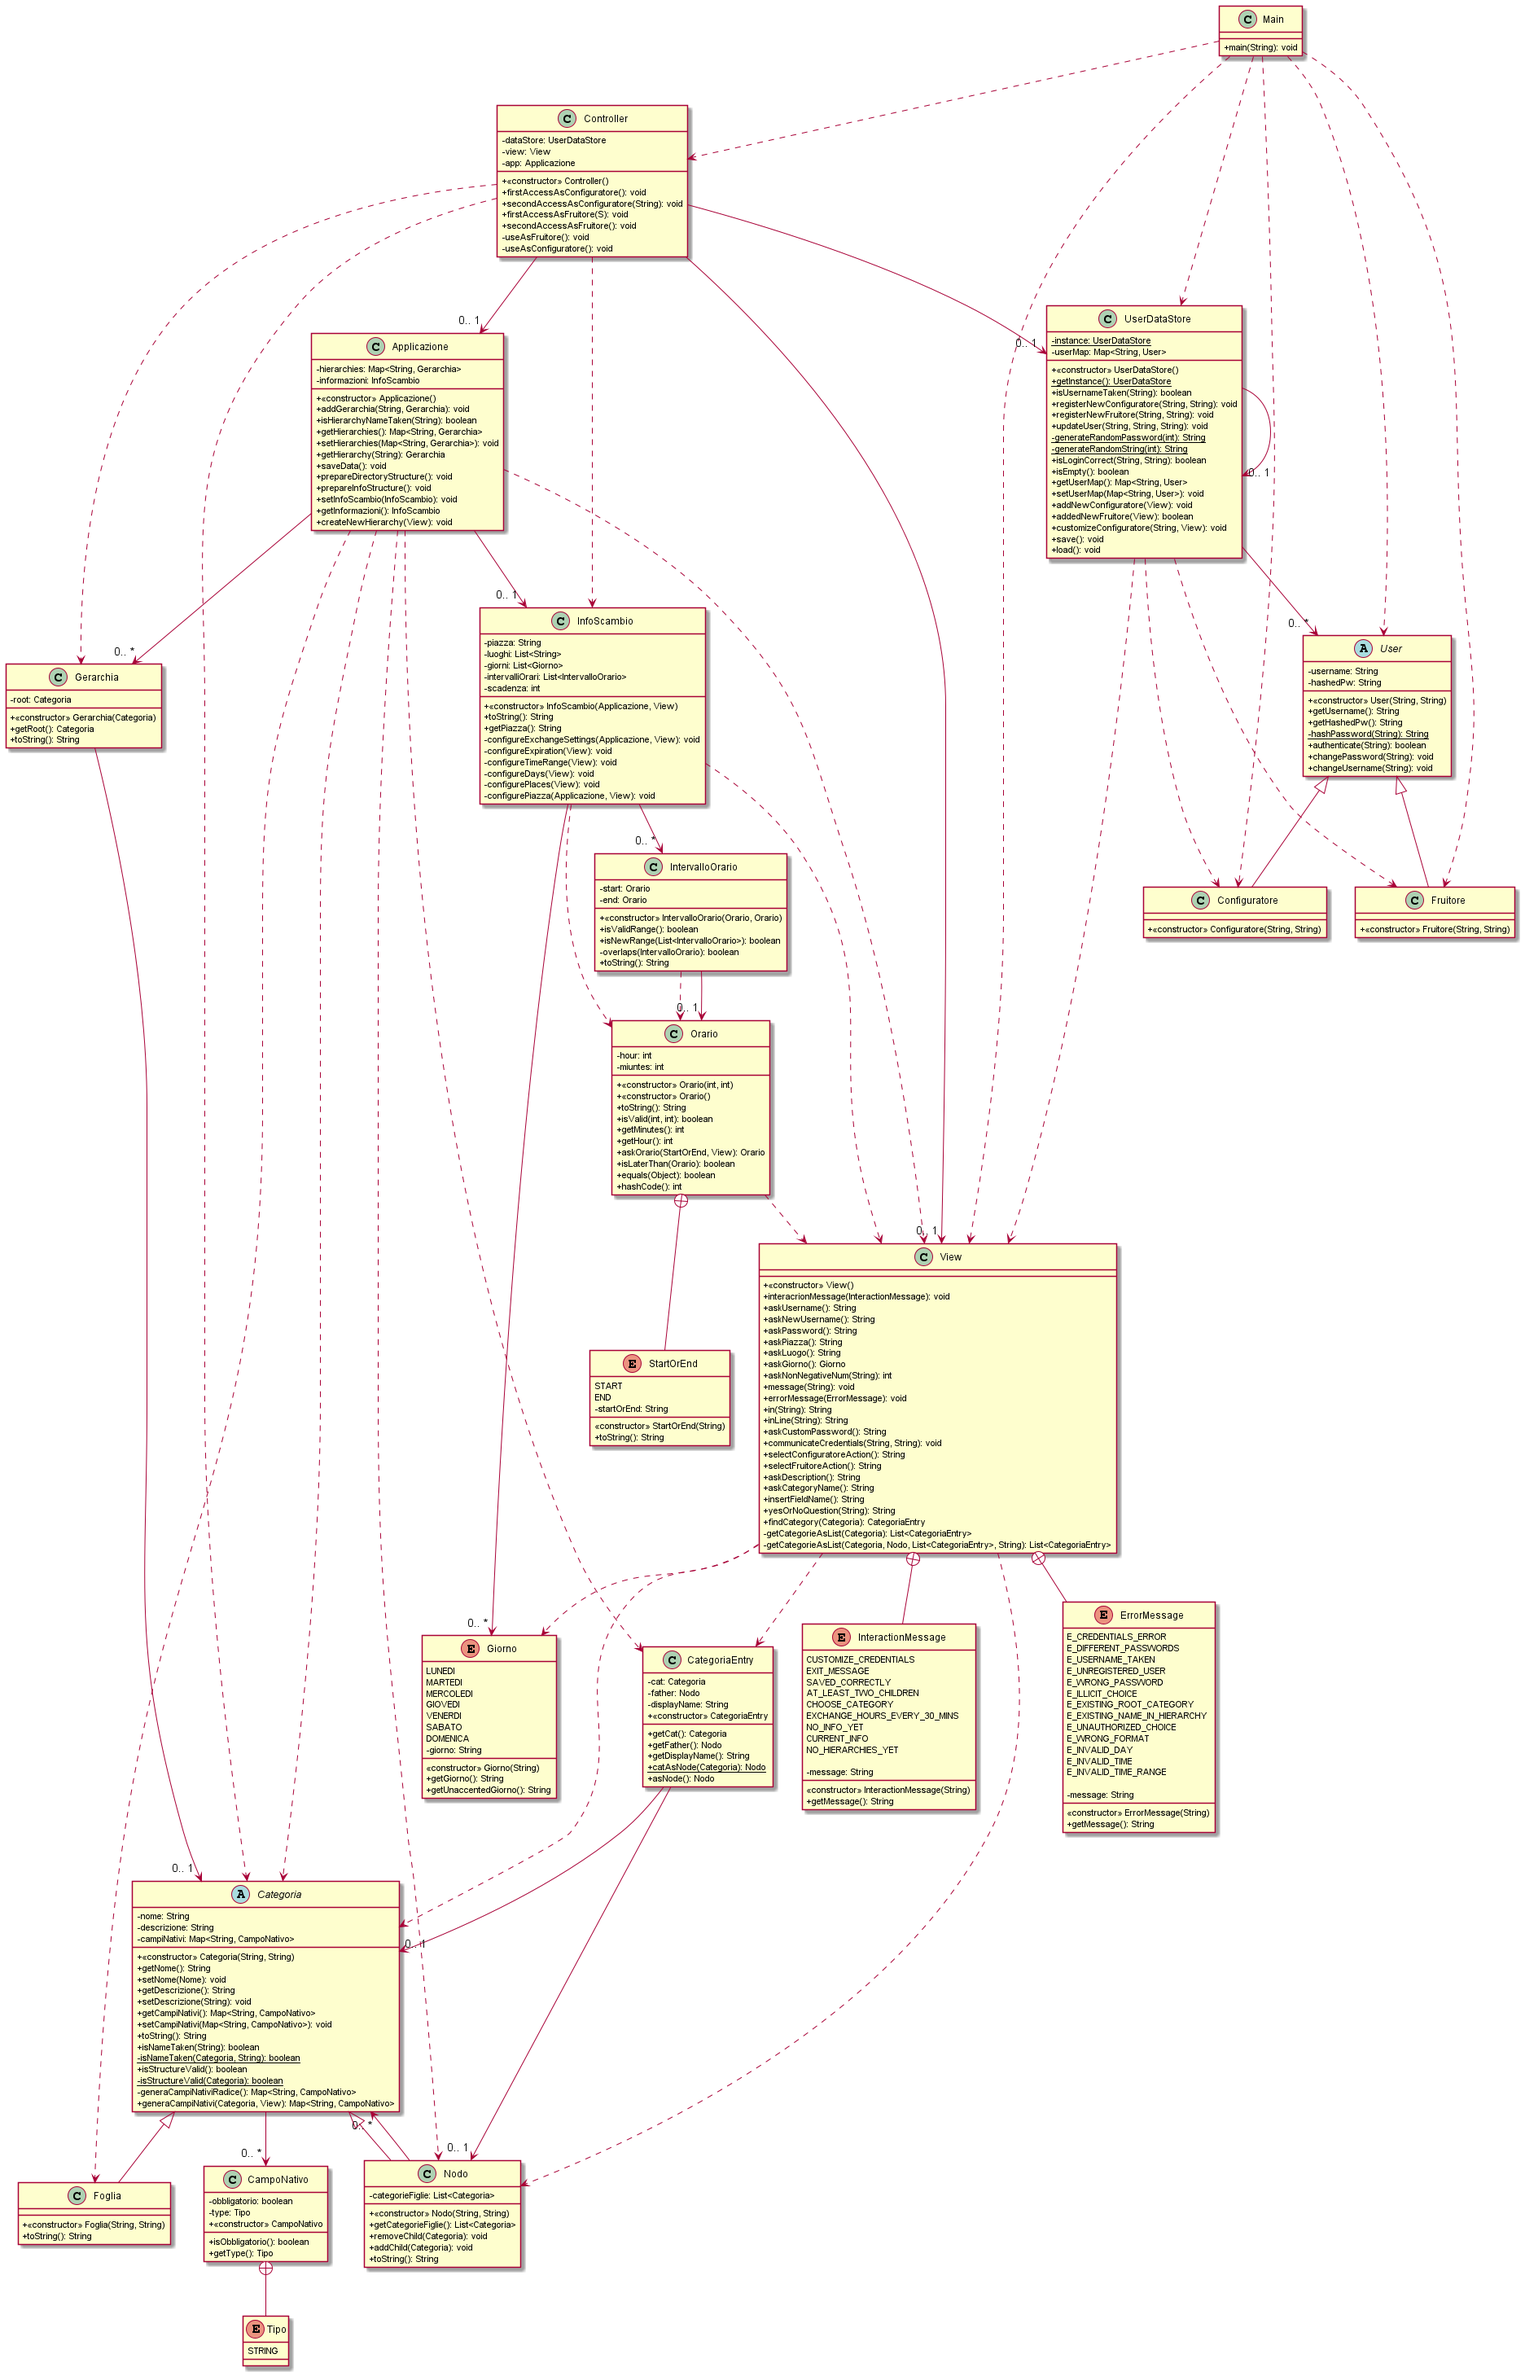
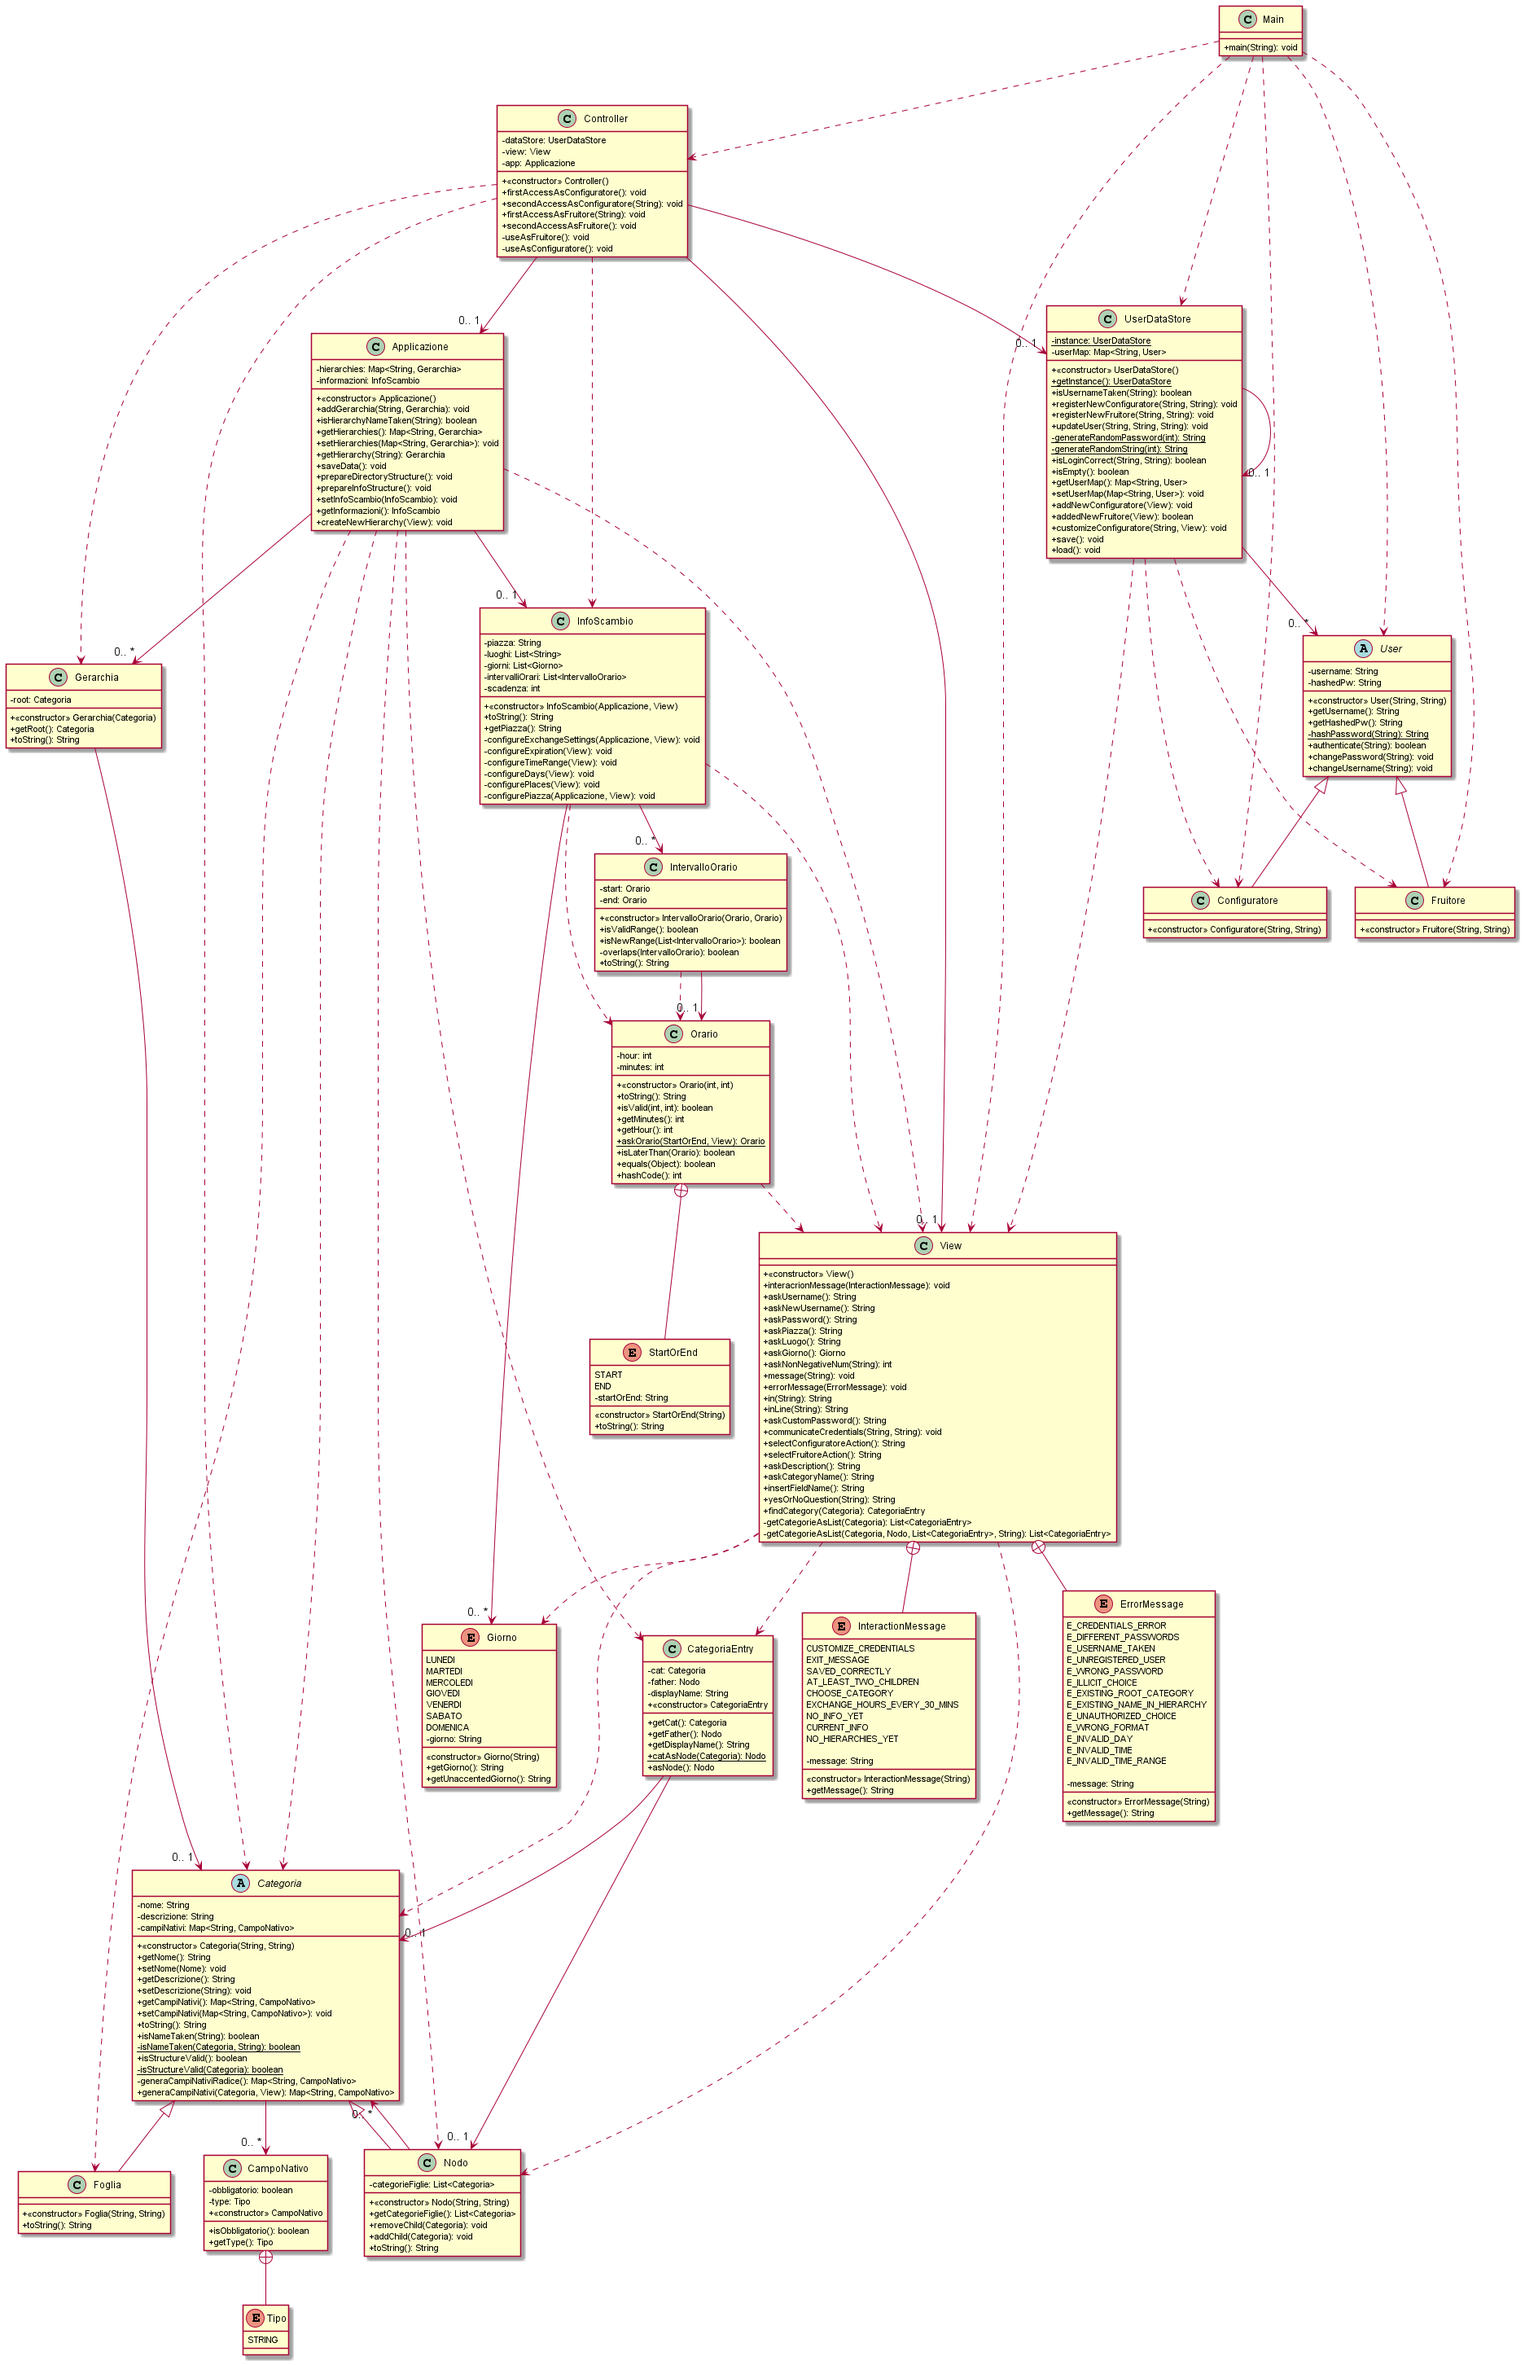
version 2.1.1

diff --git a/src/it/unibs/ingsw/InfoScambio.java b/src/it/unibs/ingsw/InfoScambio.java
@@ -101,11 +101,9 @@ public class InfoScambio implements Serializable {
         while (this.intervalliOrari.isEmpty() || view.yesOrNoQuestion("Inserire un altra fascia oraria per lo scambio? [Y/N]").equalsIgnoreCase("y")) {
             view.interactionMessage(View.InteractionMessage.EXCHANGE_HOURS_EVERY_30_MINS);
             //chiede l'orario di inizio
-            Orario start = new Orario();
-            start = start.askOrario(Orario.StartOrEnd.START, view);
+            Orario start = Orario.askOrario(Orario.StartOrEnd.START, view);
             //chiede l'orario di fine
-            Orario end = new Orario();
-            end = end.askOrario(Orario.StartOrEnd.END, view);
+            Orario end = Orario.askOrario(Orario.StartOrEnd.END, view);
 
             IntervalloOrario intervallo = new IntervalloOrario(start, end);
             if (intervallo.isValidRange() && intervallo.isNewRange(this.intervalliOrari))

diff --git a/src/it/unibs/ingsw/Orario.java b/src/it/unibs/ingsw/Orario.java
@@ -26,12 +26,6 @@ public class Orario implements Serializable {
     }
 
     /**
-     * Costruttore
-     */
-    public Orario() {
-    }
-
-    /**
      * @return stringa contenente la descrizione dell'orario nel formato hh:mm
      */
     public String toString() {
@@ -94,7 +88,7 @@ public class Orario implements Serializable {
      * @param view       view
      * @return orario (di inizio o di fine dell'intervallo a seconda di quanto specificato nei parametri) inserito dall'utente
      */
-    public Orario askOrario(@NotNull StartOrEnd startOrEnd, @NotNull View view) {
+    public static Orario askOrario(@NotNull StartOrEnd startOrEnd, @NotNull View view) {
         Orario hour;
         int h;
         int m;
